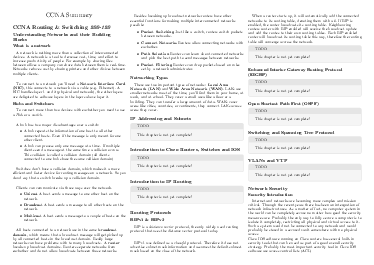
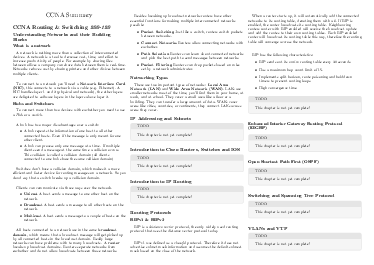
Updated RIP chapter

Changed region(s): [[0.6471, 0.1509, 0.9706, 0.966]]

diff --git a/summary.tex b/summary.tex
@@ -160,6 +160,14 @@ RIPv1 was defined as a \textit{classful} protocol. Therefore it does not adverti
 When a router starts up, it will automatically add the connected networks to its routing table, denoting them with a \verb!C!.
 If RIP is enabled, the router broadcasts its routing table. Neighbouring routers router with RIP enabled will receive the broadcast update and add the routes to their own routing tables.
 Each RIP enabled router will broadcast its routing table this way, therefore the routing table will converge accross the network.
+\paragraph{}
+RIP has the following characteristics:
+\begin{itemize}
+	\item RIP sends out its \textit{entire} routing table every 30 seconds.
+	\item Has a maximum hop count limit of 15.
+	\item Implements split horizon, route poisoning and holddown timers to prevent routing loops.
+	\item High convergence time.
+\end{itemize}
 \begin{textbox}{gray}{TODO}
 	This chapter is not yet complete!
 \end{textbox}
@@ -192,20 +200,20 @@ As a matter of fact, no computer system in the world can be completely secure no
 Cisco IOS software running on Cisco routers has several built-in security tools that can be used as part of a good overall security strategy. Probably the most important security tool in Cisco IOS software are access control lists (ACL)
 
 \begin{description}
-	\item[C] Confidentiality - prevents acces to sensative information   
+	\item[C] Confidentiality - prevents acces to sensative information
 	\item[I] Integritiy - prevents unauthorized modification of data
 	\item[A] Availability  - prevents the loss of acces to information
 \end{description}
 
 In a medium to large enterprise, the typical secured network is built around a recipe of a perimeter router, a firewall device, and an internal router.
 \begin{description}
-	\item[Perimeter Router] is the border between enterprise resources and the public network (internet)  
+	\item[Perimeter Router] is the border between enterprise resources and the public network (internet)
 	\item[Firewall] Firewall allows sophisticated control of traffic flow.
-	\item[Internal Router]  provides addtional security by providing a point for further traffic control 
-	\item[DMZ] provides a buffer zone that seperates a trusted network from the untrusted network. 
+	\item[Internal Router]  provides addtional security by providing a point for further traffic control
+	\item[DMZ] provides a buffer zone that seperates a trusted network from the untrusted network.
 \end{description}
 
-Vulnerabilities, Threats and Exploits 
+Vulnerabilities, Threats and Exploits
 \begin{description}
 	\item[Vulnerability] - a weakness in a system or design which can be exploited by a threat
 	\item[Threat] - threat is an external danger to the system have a vulnerability
